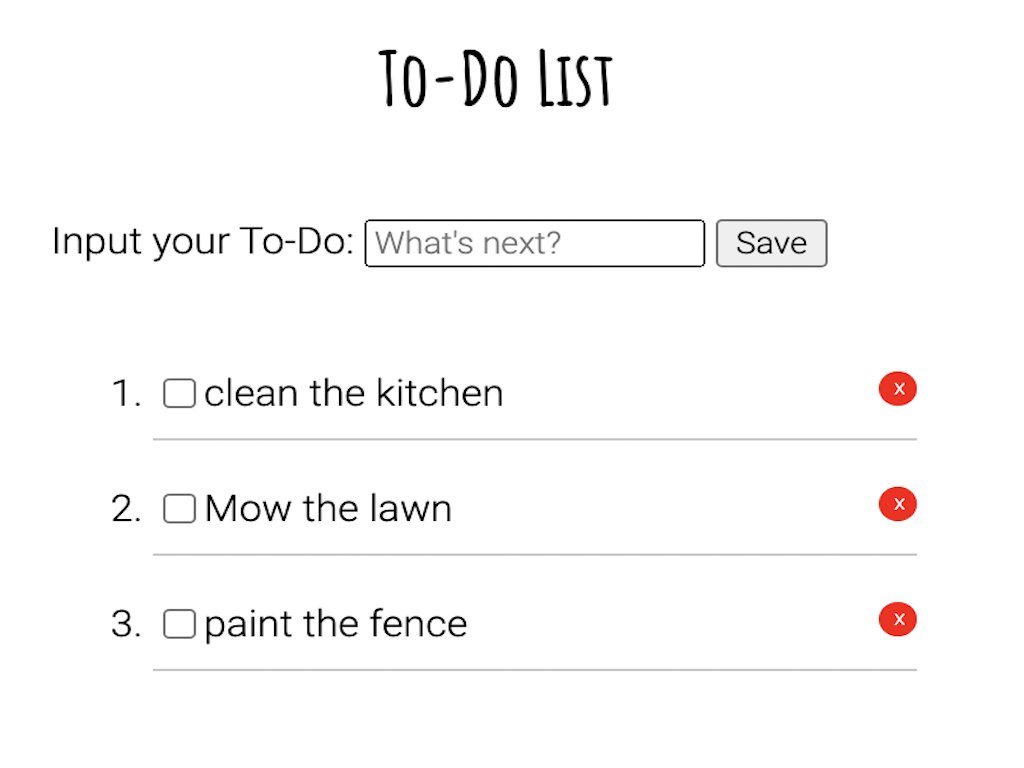
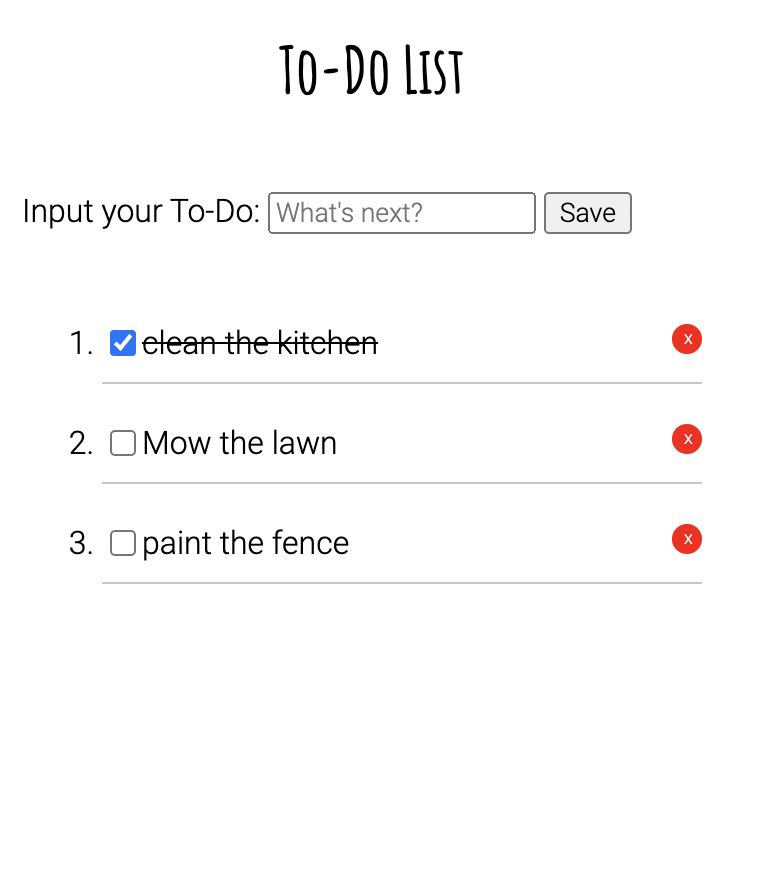
Updated README and minor change in script.js, also updated app pic.

diff --git a/script.js b/script.js
@@ -15,7 +15,7 @@ function saveTodo() {
 
 function displayTodos() {
     const todoList = document.querySelector("#todo-list");
-    todoList.innerHTML = "";
+    todoList.textContent = "";
     const ids = getSavedTodosIds();
 
     ids.forEach((id) => {

diff --git a/README.md b/README.md
@@ -8,6 +8,8 @@
 
 ## Summary
 
+A simple todo app that stores memory in local storage and saves the state of completed todos'. This was my first attempt at using local storage. It was challenging to save the data as an object, recall and update the data, then store it back in local storage.
+
 ## Author
 
 Bryan Krauss - Full Stack Software Developer [LinkedIn](https://www.linkedin.com/in/bryan-krauss-556b3a200/)
